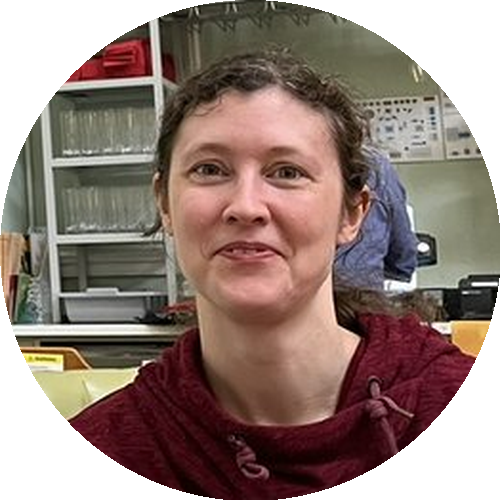
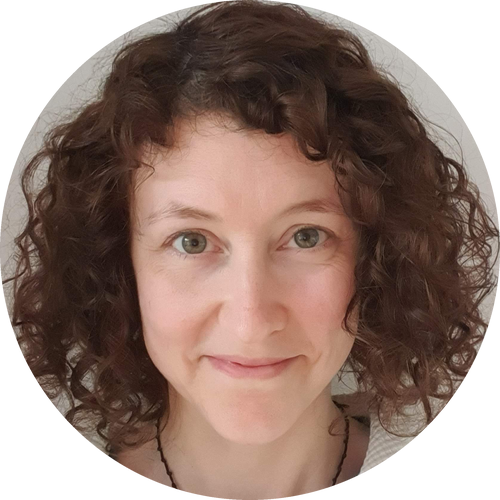
wording and photo improvements

diff --git a/content/en/blog/news/neurofly2026.md b/content/en/blog/news/neurofly2026.md
@@ -6,11 +6,11 @@ description: >
     VFB will be giving a talk and running live demos, alongside our posters, at NeuroFly 2026 in Cologne, Germany.
 ---
 
-The 21st Biennial European Drosophila Neurobiology Conference, NeuroFly 2026, will be held at the University of Cologne, Germany, from September 7th to 11th, 2026. This conference continues the tradition of bringing together researchers from around the world to discuss the latest advancements in Drosophila neurobiology, including studies on neuronal circuits, synapses, connectome, signal transmission, behaviour, development, and more. The event emphasises interdisciplinary interactions in an inclusive environment, featuring a mix of invited talks and abstracts from both junior and senior researchers.
+The 21st Biennial European Drosophila Neurobiology Conference, NeuroFly 2026, will be held at the University of Cologne, Germany, from September 7th to 11th, 2026. This conference continues the tradition of bringing together researchers from around the world to discuss the latest advancements in Drosophila neurobiology, including studies on neuronal circuits, synapses, the connectome, signal transmission, behaviour, development, and more. The event emphasises interdisciplinary interactions in an inclusive environment, featuring a mix of invited talks and abstracts from both junior and senior researchers.
 
 Virtual Fly Brain (VFB) is excited about the upcoming conference. Following on from our previous successful sessions, such as the one at [NeuroFly 2024](neurofly2024.md) titled 'Bridging connectomics and transcriptomics' ([workshop notebook](http://tinyurl.com/workshopVFB)), we've put together a new self-led workshop covering the connectomics and transcriptomics data we have available — see the update below for details.
 
-Virtual Fly Brain (VFB) will be there. We will be giving a talk about the data and tools we make available, and running live demos during the poster sessions, where you will also find our posters. Come and find us if you would like a hands-on walkthrough. The demos will introduce the connectomics data available on VFB and show you how to perform your own analysis using the latest [tools](/docs/past-workshops/connectome/tools) and [APIs](/docs/tutorials/apis/) for integrating Drosophila neuroscience data. We can also show you how to use AI to query our data directly, through our [MCP tool](/docs/tutorials/vfb-mcp-guide/).
+Some of our team will be there in person. We will be giving a talk about the data and tools we make available, and running live demos during the poster sessions, where you will also find our posters. Come and find us if you would like a hands-on walkthrough. The demos will introduce the connectomics data available on VFB and show you how to perform your own analysis using the latest [tools](/docs/past-workshops/connectome/tools) and [APIs](/docs/tutorials/apis/) for integrating Drosophila neuroscience data. We can also show you how to use AI to query our data directly, through our [MCP tool](/docs/tutorials/vfb-mcp-guide/).
 
 For more information about NeuroFly 2026, including the full programme, visit the official website at [https://neurofly.org/home/](https://neurofly.org/home/) or the 2026 conference page at [https://neurofly.org/y2026/](https://neurofly.org/y2026/).
 
@@ -18,15 +18,15 @@ For more information about NeuroFly 2026, including the full programme, visit th
 
 **Update (30 August 2026):** With NeuroFly 2026 just over a week away, here's what to look out for.
 
-**Work through our self-led workshop.** [VFB Self-Led Learning](https://workshop.virtualflybrain.org) is a set of seven sessions on finding, connecting and examining neurons across all the connectomes available on VFB, plus imaging and transcriptomic data. We built it as a self-led, online workshop rather than a single in-person session so that far more people can work through it than a conference room could ever hold — and so that anyone who can't make it to Cologne in person can still take part. Work through it in your own time, before, during or after the conference, choosing whichever route suits you — Python, R, VFB Chat, our [MCP tool](/docs/tutorials/vfb-mcp-guide/), or the 3D browser. Most routes need no installation at all. Start at Session 1 and work through in order, then apply what you've learned to your own neurons, regions and genes.
+**Work through our self-guided workshop.** The [VFB Self-led Learning Sessions](https://workshop.virtualflybrain.org) are a set of seven sessions on finding, connecting and examining neurons across all the connectomes available on VFB, plus imaging and transcriptomic data. We built it as a self-led, online workshop rather than a single in-person session to remove space constraints and to open it up to non-attendees. Work through it in your own time, before, during or after the conference. There are multiple routes, Python, R, Chat interface, our [MCP tool](/docs/tutorials/vfb-mcp-guide/), or the 3D browser, all with little to no setup required. Sessions are designed to be worked through in order, then you can apply what you've learned to your own neurons, regions and genes!
 
-**Find us at our table.** We'll have a table at the conference throughout, so come and find us if you get stuck on the workshop, want a live demo, or just have questions about the data or tools — that's exactly what we're there for.
+**Find us at our table.** We'll have a table at the conference throughout, so come and find us if you get stuck on the workshop, want a live demo, or just have questions about the data or tools!
 
 **The VFB team at NeuroFly 2026** (see the [full VFB team](/about/members/)):
 
 - **Douglas Armstrong** (Current Project PI) — attending, not presenting directly
-- **Greg Jefferis** (Current Project PI) — giving Plenary Lecture 2 on Day 2 (Tuesday 8 September), 10:00
-- **Clare Pilgrim** (Ontology Editor/Curator) — speaking straight after Greg, in the Motor Control oral session
+- **Greg Jefferis** (Current Project PI) — giving Plenary Lecture 2 on Day 2, 10:00 Tuesday 8th September
+- **Clare Pilgrim** (Ontology Editor/Curator) — speaking after the coffee break following Greg's talk, at the start of the Motor Control oral session, 11:00 Tuesday 8th September
 - **Robert Court** (Lead DevOps) — poster A66, "Querying Virtual Fly Brain in natural language: opening curated Drosophila connectomics to non-specialists", Poster Session A
 - **Alex McLachlan** (Curator/UX Tester) — poster A67, "Linking neurons across connectomes, light-level images and expression data in Virtual Fly Brain (VFB) using NBLAST", Poster Session A
 
